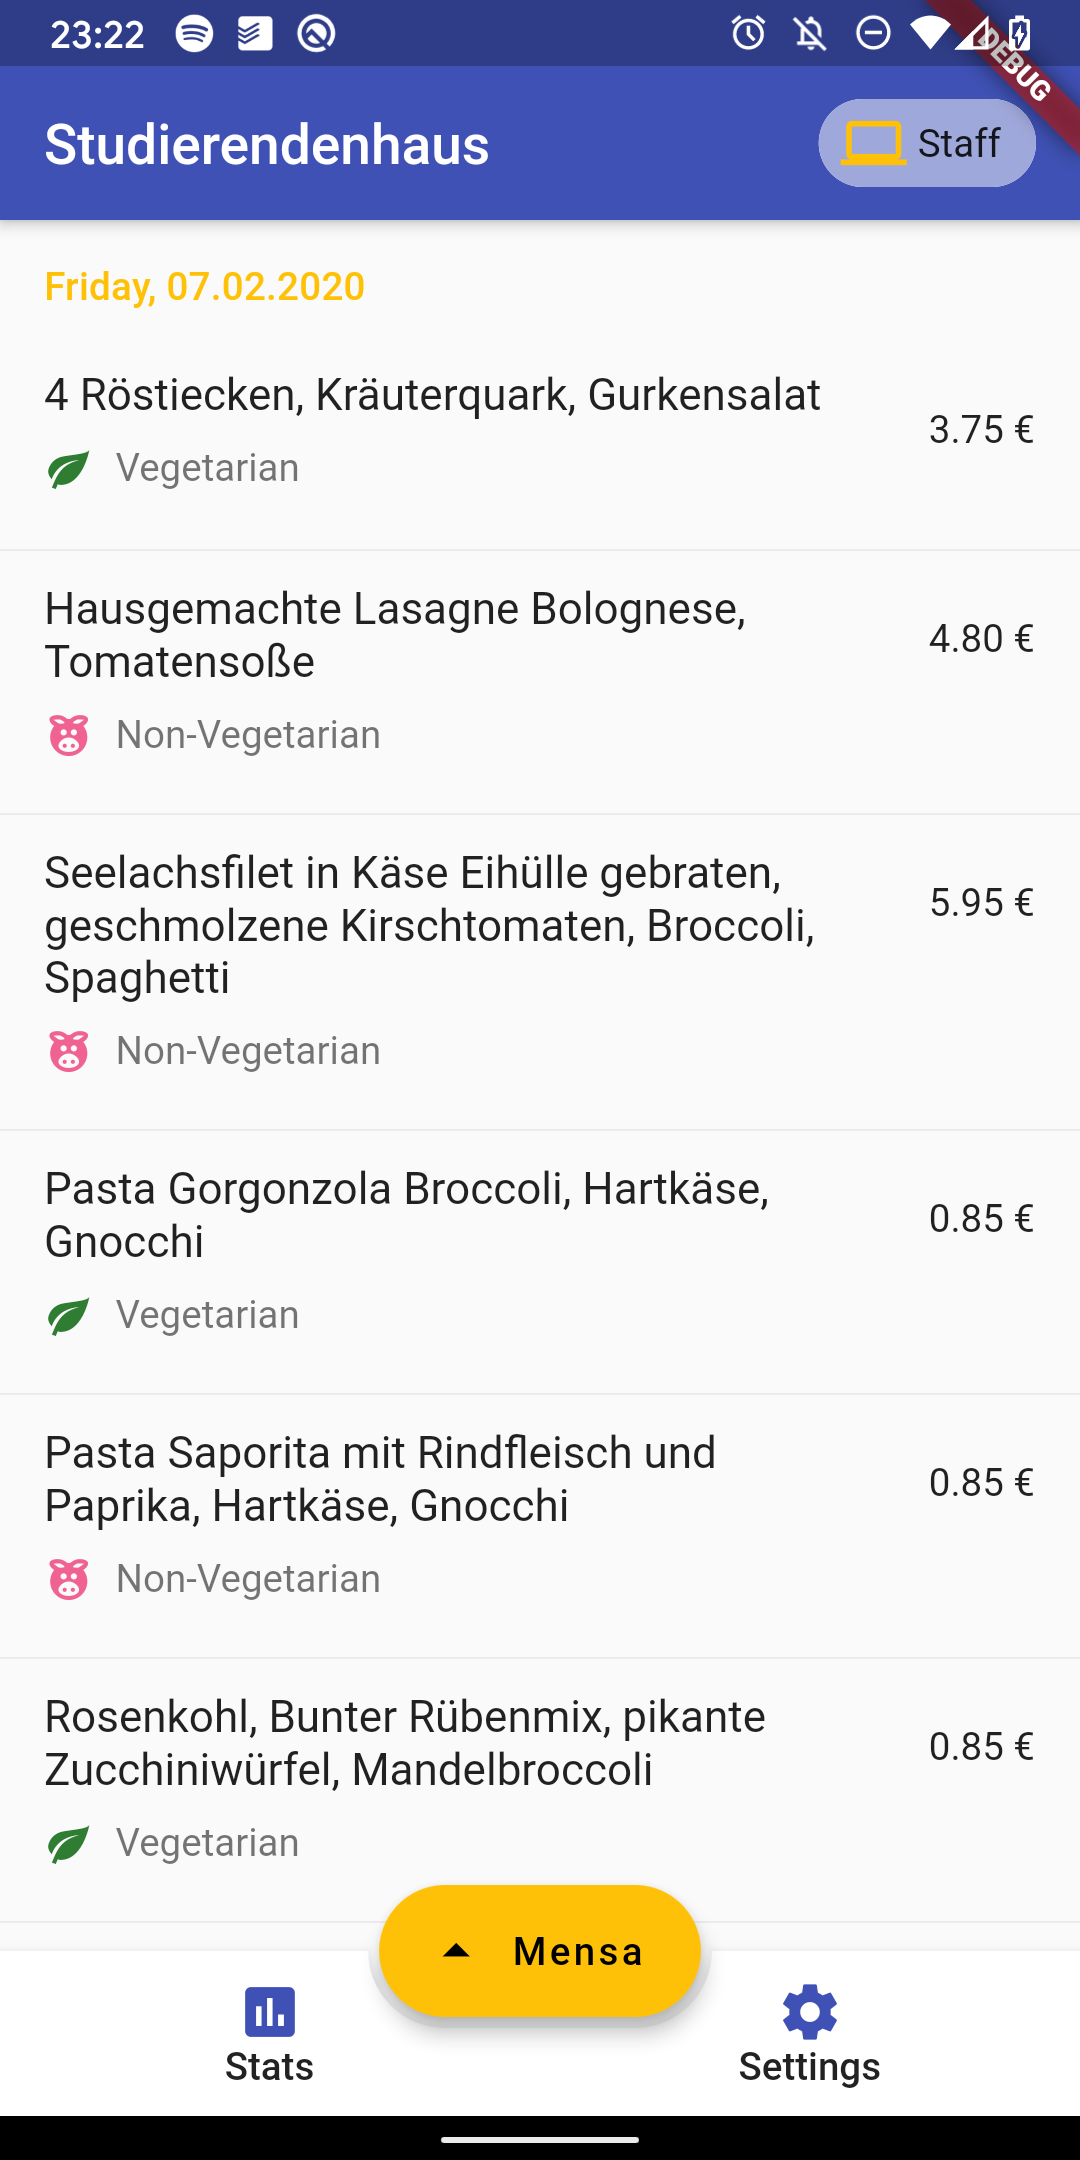
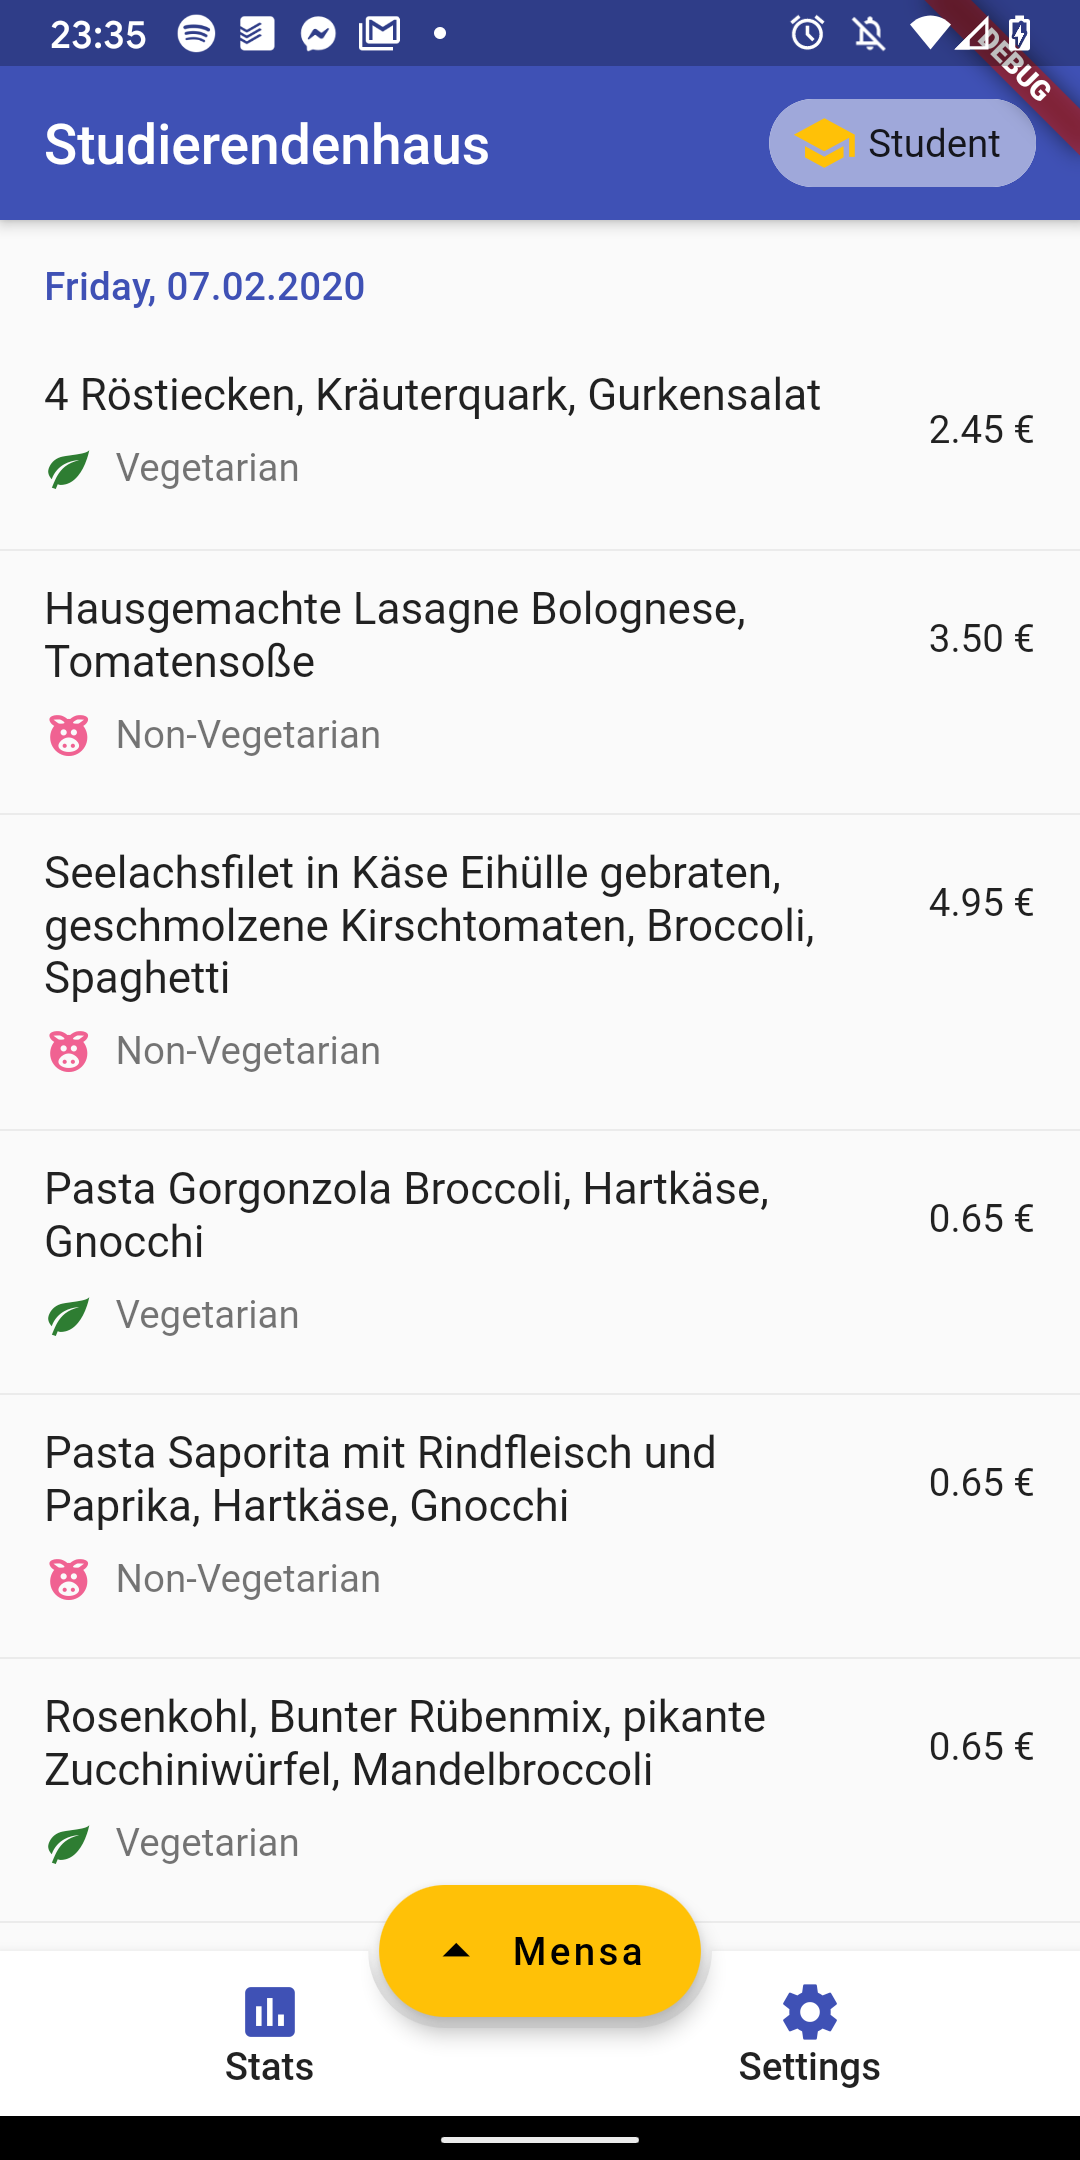
Change light theme's subtitle-color to primary

diff --git a/lib/ui/theme_helper.dart b/lib/ui/theme_helper.dart
@@ -18,7 +18,7 @@ ThemeData getLighAppTheme() {
 
     textTheme: TextTheme(
       subtitle: TextStyle(
-        color: lightThemeAccentColor
+        color: lightThemePrimaryColor
       ),
     ),
   );
